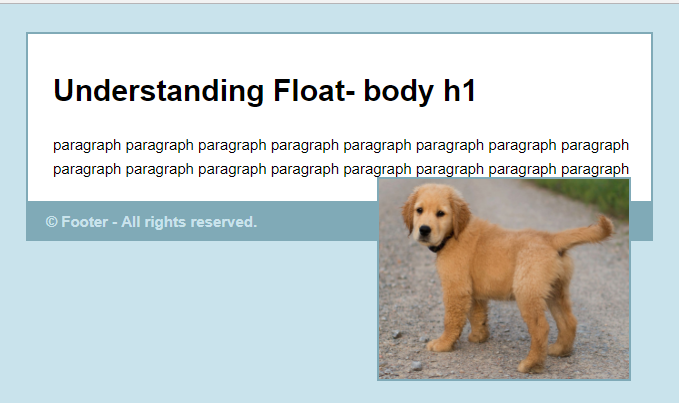
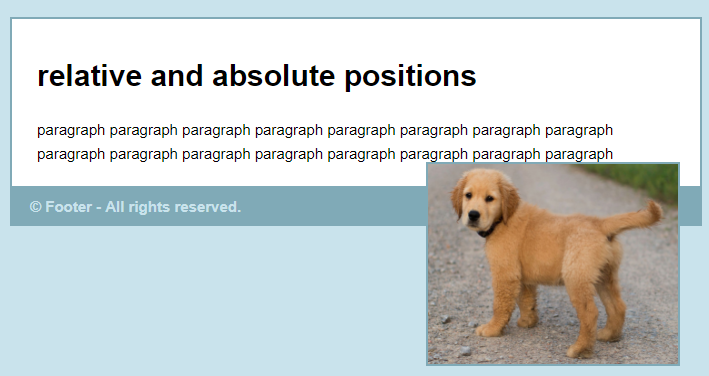
Understanding Typography(font,size,spacing)

diff --git a/7.css b/7.css
@@ -1,0 +1,28 @@
+
+h1
+{  font-family:tahoma;
+   /* font-size: 20px;     */
+   /* font-size: 200%;   */
+   font-size: 2em;   /*  so px, % or em are used for font-size*/
+   font-weight: normal; /*  used for bold*/
+   font-style: italic;
+   letter-spacing: 3px;
+   word-spacing: 10px;
+   text-shadow:3px 3px 5px #333;
+   text-decoration: underline;
+   text-transform: uppercase;
+  
+}
+p
+{ 
+        line-height: 1.6em;
+        text-indent:50px;
+        text-align: right;
+
+}
+div.container /* accessing as class */
+{       padding: 20px;
+        border:2px solid #80aab7;
+        background-color:  #FFF;
+       
+}

diff --git a/7.html b/7.html
@@ -1,0 +1,19 @@
+
+<html >
+	<head>
+		<title>Understanding Typography</title><!-- title -->
+		<link rel="stylesheet" href="7.css" type="text/css"/><!-- css -->
+	</head>
+	<body>
+	  <div class="container ">
+		<h1>Understanding Typography(font,size,spacing)</h1>
+	
+		<p> paragraph paragraph paragraph paragraph paragraph paragraph paragraph paragraph
+			paragraph paragraph paragraph paragraph paragraph paragraph paragraph paragraph
+		</p>
+	
+	
+	  </div><!--/container-->
+
+	</body>
+</html>

diff --git a/6.html b/6.html
@@ -6,7 +6,7 @@
 	</head>
 	<body>
 	  <div class="container ">
-		<h1>Understanding Float- body h1</h1>
+		<h1>relative and absolute positions</h1>
 	
 		<p> paragraph paragraph paragraph paragraph paragraph paragraph paragraph paragraph
 			paragraph paragraph paragraph paragraph paragraph paragraph paragraph paragraph

diff --git a/README.md b/README.md
@@ -19,3 +19,5 @@
 ![enter image description here](https://github.com/manojkmishra/css-tricks/blob/master/screenshots/5.1.PNG)  
 6. **File(6.html,6.css)  : relative and absolute positions**   
 ![enter image description here](https://github.com/manojkmishra/css-tricks/blob/master/screenshots/6.PNG)  
+7. **File(7.html,7.css)  : Understanding Typography(font,size,spacing)**   
+![enter image description here](https://github.com/manojkmishra/css-tricks/blob/master/screenshots/7.PNG)  
